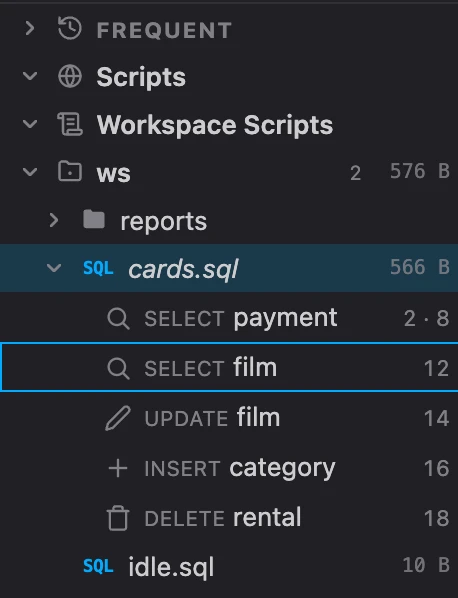
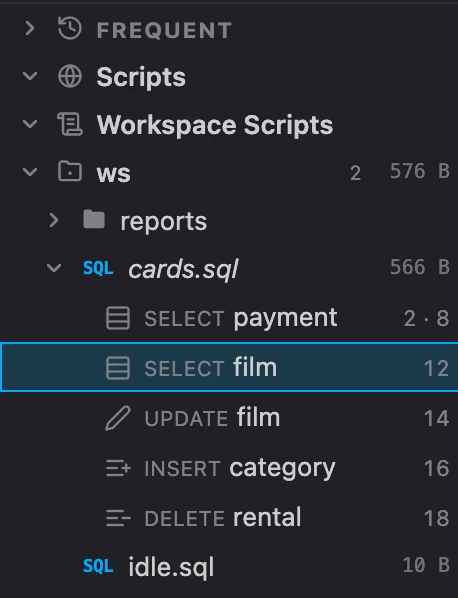
changelog: 0.32.0 notes, current pictures of the statements and the query card, Objects among the highlights

Changed region(s): [[0.0, 0.3913, 1.0, 0.6622], [0.214, 0.8428, 0.3057, 0.903], [0.2445, 0.7525, 0.2751, 0.8127]]

diff --git a/changelog/free-v0.32.0/README.md b/changelog/free-v0.32.0/README.md
@@ -1,14 +1,17 @@
 # PlumeSQL 0.32.0
 
 A result now says when you changed its query since it ran, a script unfolds into its statements
-in the Explorer, a query on a diagram is titled by its comment, and the PostgreSQL reference in
-the editor reads right for JOIN and for the functions written the SQL standard's way.
+in the Explorer, the Objects tab always shows your script's database, a query on a diagram is
+titled by its comment, and the PostgreSQL reference in the editor reads right for JOIN and for the
+functions written the SQL standard's way.
 
 ## Highlights
 
 - **Results that say when the query changed:** an **Edited** mark on the result, with **Run**
   beside it.
 - **A script's statements in the Explorer:** unfold a SQL file and click the statement you want.
+- **Objects always shows your script's database:** no pin any more, and a click in Connections
+  asks before it moves a script to another connection.
 - **Query cards titled by their comment:** `-- Revenue by category` above a query names its
   card on a diagram, and its Rows change without a Refresh.
 - **The reference reads right:** JOIN's hover says what a joined table is, and substring,
@@ -32,7 +35,7 @@ a real change does. The rows stay as they were until you run it again.
 A SQL file of two or more statements now has a chevron in the Explorer. Unfold it and every
 statement is a row of its own, named as in the Outline, with the line it starts on:
 
-![The Explorer: cards.sql unfolded into SELECT payment, SELECT film, UPDATE film, INSERT category and DELETE rental, each with its line; idle.sql below it, one statement and no chevron](media/explorer-statements.webp)
+![The Explorer: cards.sql unfolded into SELECT payment, SELECT film, UPDATE film, INSERT category and DELETE rental, each with its icon and its line, SELECT film highlighted as the statement the cursor is in; idle.sql below it, one statement and no chevron](media/explorer-statements.webp)
 
 Click a statement and the file opens with it selected, while the keyboard stays in the Explorer,
 so the arrow keys keep walking the statements. Enter or a double click puts you in the editor on
@@ -44,6 +47,9 @@ that statement, as the Outline's does.
 While you work in a file you have unfolded, the statement your cursor is in is highlighted and
 kept in view as you move, the way the Outline follows it.
 
+A file you have open follows your edits before you save them. The Explorer remembers which files
+you unfolded, and **Statements** in its menu turns the rows off.
+
 ### Statement icons that say what a statement does
 
 The icons beside the statements, in the Outline and under a script in the Explorer, were
@@ -51,9 +57,6 @@ redrawn. A SELECT no longer wears a magnifier, which looked like a search: it sh
 rows. INSERT, DELETE and TRUNCATE are rows added, taken away and emptied, EXPLAIN is a plan's
 tree, and BEGIN, COMMIT, ROLLBACK and SAVEPOINT each have their own: a flag, a check, an undo
 and a bookmark.
-
-A file you have open follows your edits before you save them. The Explorer remembers which files
-you unfolded, and **Statements** in its menu turns the rows off.
 
 ## What changed
 
@@ -73,6 +76,9 @@ If the script has an open transaction, the question says that assigning another 
 it back. The arrow keys in Connections never ask. A click on the connection in the Objects header
 now opens the script's own connection picker, the one beside Run.
 
+The crosshair in the Objects header, which lights and reveals the object under the editor's
+cursor, is now called **Follow the Cursor**, in its tooltip, the pane's menu and Settings.
+
 ### A script's connection in its color in the Explorer
 
 A script's mark after its name in the Explorer is now its connection's elephant, in the
@@ -89,7 +95,7 @@ card on a diagram wears the same elephant before its connection's name.
 Write a comment above the SQL of a query on a diagram and its first line becomes the card's
 title, with the statement's name quieter beside it:
 
-![A query card on a diagram titled Revenue by category, SELECT payment beside it in grey, over a bar chart of revenue per film category](media/query-card-title.webp)
+![A query card on a diagram: the dvdrental connection's elephant in its header, titled Revenue by category with SELECT payment beside it in grey, over ten of its sixteen rows of revenue per film category](media/query-card-title.webp)
 
 Annotations such as `-- @extension ...` are left out, and a query without a comment keeps its
 statement's name alone. Properties says the title too.
@@ -157,6 +163,9 @@ it one in the keyboard settings.
 
 ## Fixed
 
+- **A path in Properties stays where you scroll it.** On a script's page, the file's path shows
+  its end. Scrolled back to read its start, it jumped to the end again as soon as the page took in
+  something arriving later, such as the connection's details. It now stays where you left it.
 - **A table view on a diagram shows its table.** A query card drawn by a view that computes rows,
   such as JSON rows, pivot or transpose, stayed empty while its footer counted the rows. The
   card now lists those rows in the app's own grid, as the results pane does.
